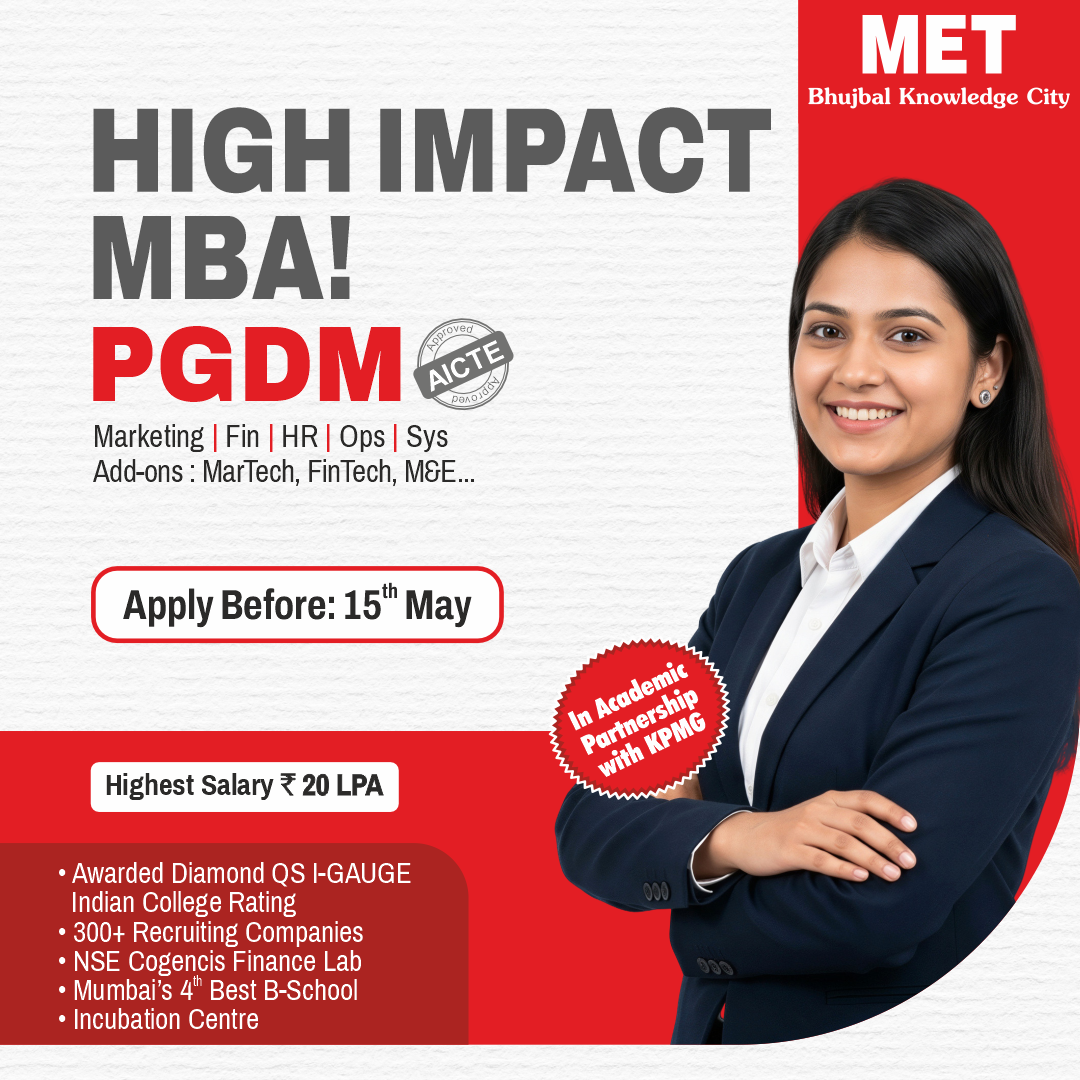
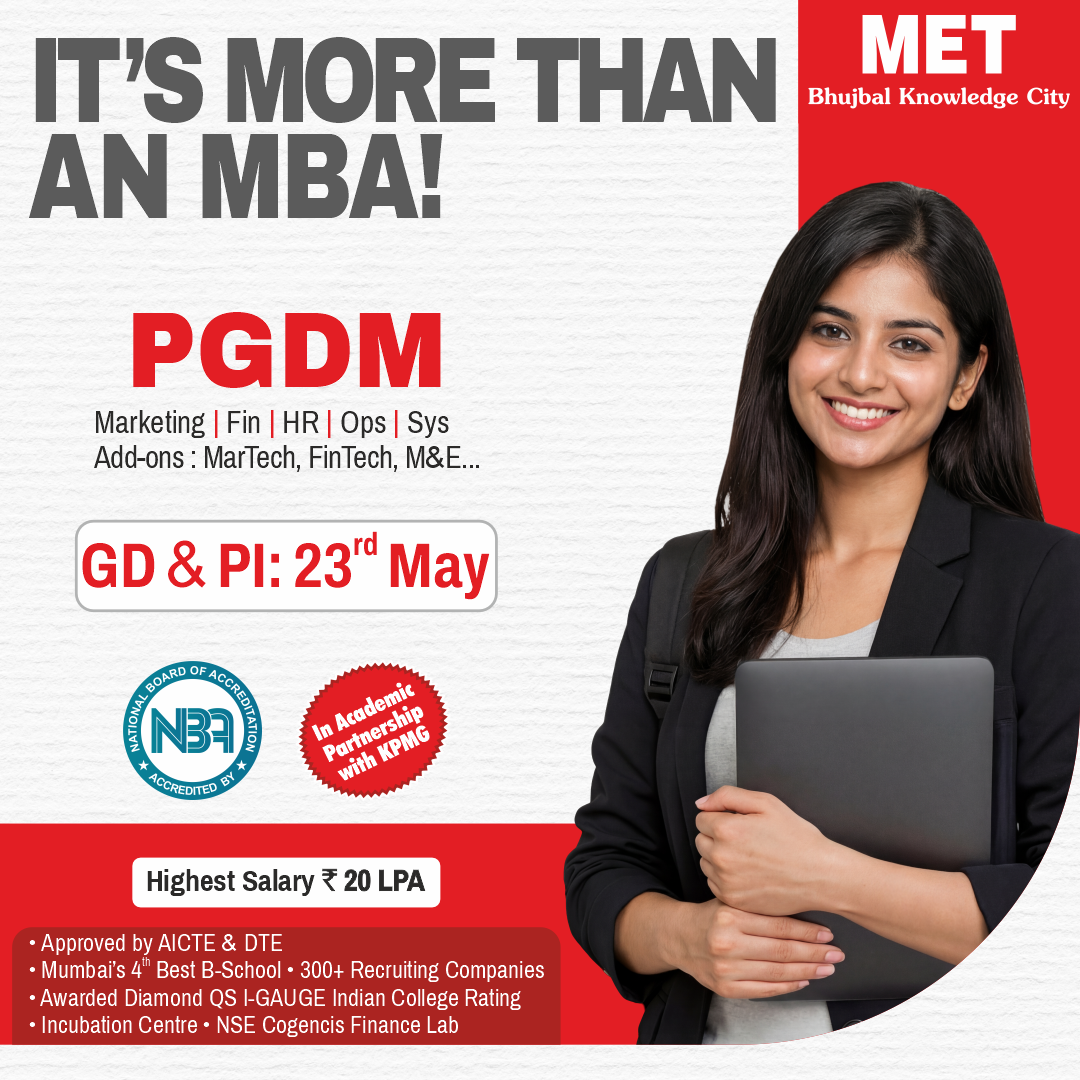
Update NBA accreditation details in content section and add new about section

diff --git a/assets/component/content.php b/assets/component/content.php
@@ -17,8 +17,8 @@
                 </div>
 
                 <div class="col-lg-3 col-md-6 col-6 legcy-sec mt-3 mb-3">
-                    <h3><span class="counter">Diamond Rating</span></h3>
-                    <p>By QS I-GAUGE Indian College Rating</p>
+                    <h3><span class="counter">NBA Accredited</span></h3>
+                    <p>PGDM Programme</p>
                 </div>
             </div>
         </div>
@@ -141,6 +141,46 @@
 
 <!---------------- Specialisations section -------------->
 
+<!---------------- National Board of Accreditation (NBA) -------------->
+
+<section id="sectionabout" style="padding:70px 0;background:#f9f9f9;">
+    <div class="container">
+
+        <div style="max-width:900px;margin:auto;">
+
+            <!-- Heading -->
+            <h2 style="font-size:42px;font-weight:700;color:#111;margin-top:20px;line-height:1.3;">
+                <span style="color:#E31E24;">NBA Accredited</span> PGDM Programme
+            </h2>
+
+            <!-- Line -->
+            <div style="width:80px;height:4px;background:#E31E24;margin:18px 0 25px;border-radius:10px;"></div>
+
+            <!-- Highlight Box -->
+            <div style="background:#fff;padding:22px;border-left:5px solid #E31E24;border-radius:12px;box-shadow:0 5px 15px rgba(0,0,0,0.08);margin-bottom:25px;">
+
+                <p style="margin:0;font-size:17px;color:#222;line-height:1.8;">
+                    <b>PGDM programme at MET Institute of PGDM is accredited by National Board of Accreditation (NBA)</b>
+                </p>
+
+            </div>
+
+            <!-- Paragraphs -->
+            <p style="font-size:16px;line-height:1.9;color:#555;margin-bottom:18px;">
+                National Board of Accreditation (NBA) accreditation reflects a strong commitment to academic excellence, industry relevance, and continuous improvement in technical and professional education. It signifies that a programme meets established quality benchmarks designed to enhance student learning outcomes and career readiness.
+            </p>
+            <br>
+            <p style="font-size:16px;line-height:1.9;color:#555;">
+                For a PGDM programme, NBA accreditation serves as a recognition of high academic standards, a robust curriculum, experienced faculty, and industry-aligned learning practices. It reinforces the programme’s focus on developing future-ready management professionals equipped with practical business knowledge and leadership capabilities.
+            </p>
+
+        </div>
+
+    </div>
+</section>
+
+<!---------------- National Board of Accreditation (NBA) -------------->
+<br><br>
 <!--------------- Advantages section ------------------->
 
 <section class="adv__sec" id="advMET">
@@ -151,6 +191,10 @@
                     <h2><span>Advantage</span> MET</h2>
                 </div>
                 <div class="pgdm-gap1">
+                    <div class="pgdm-checksign">
+                        <img class="check-sign" src="assets/images/icons/checksign.svg" alt="">
+                        <p class="check-text">PGDM programme at MET Institute of PGDM is accredited by National Board of Accreditation (NBA)</p>
+                    </div>
                     <div class="pgdm-checksign">
                         <img class="check-sign" src="assets/images/icons/checksign.svg" alt="">
                         <p class="check-text">MET is proud to be certified as an Institute of Happiness by QS I-GAUGE for 2025-26.</p>
